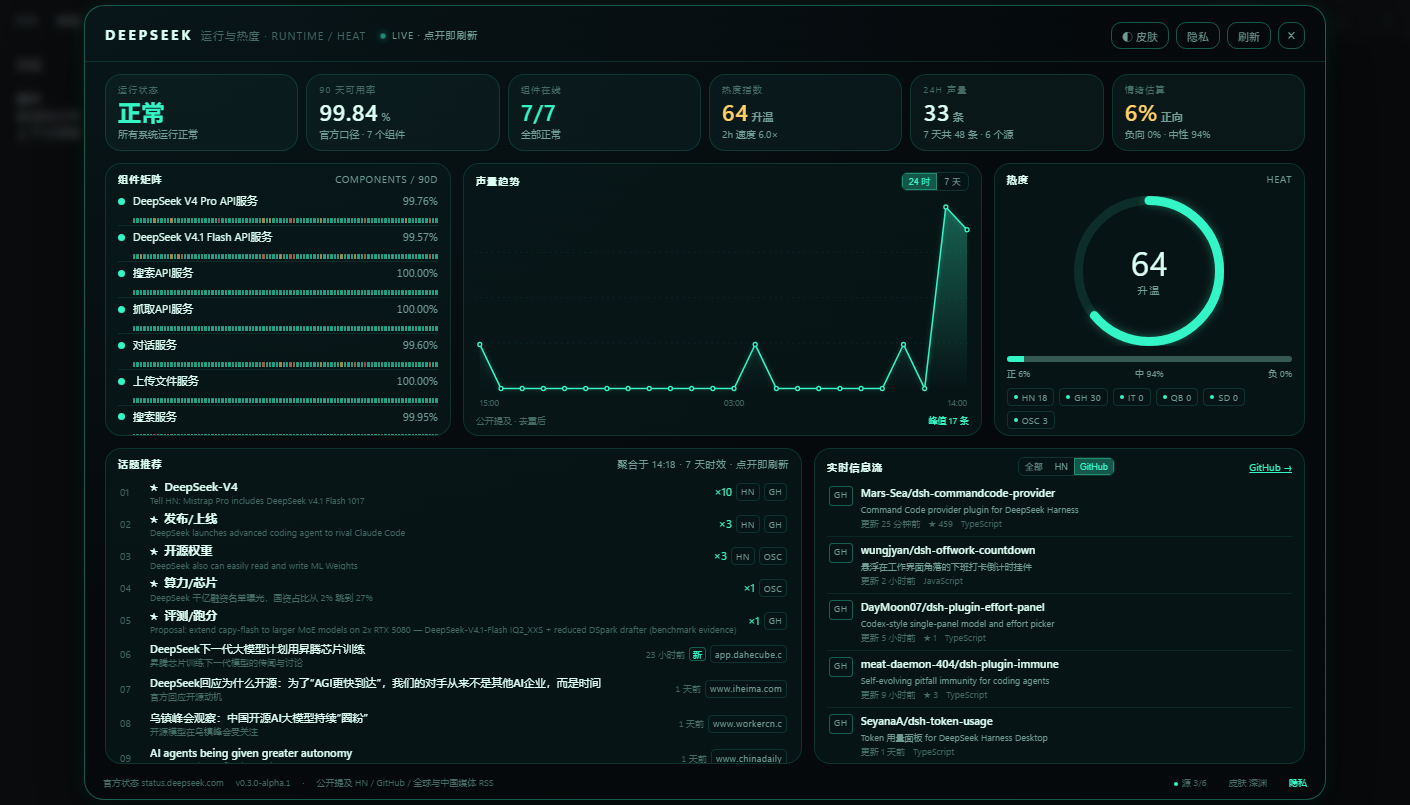
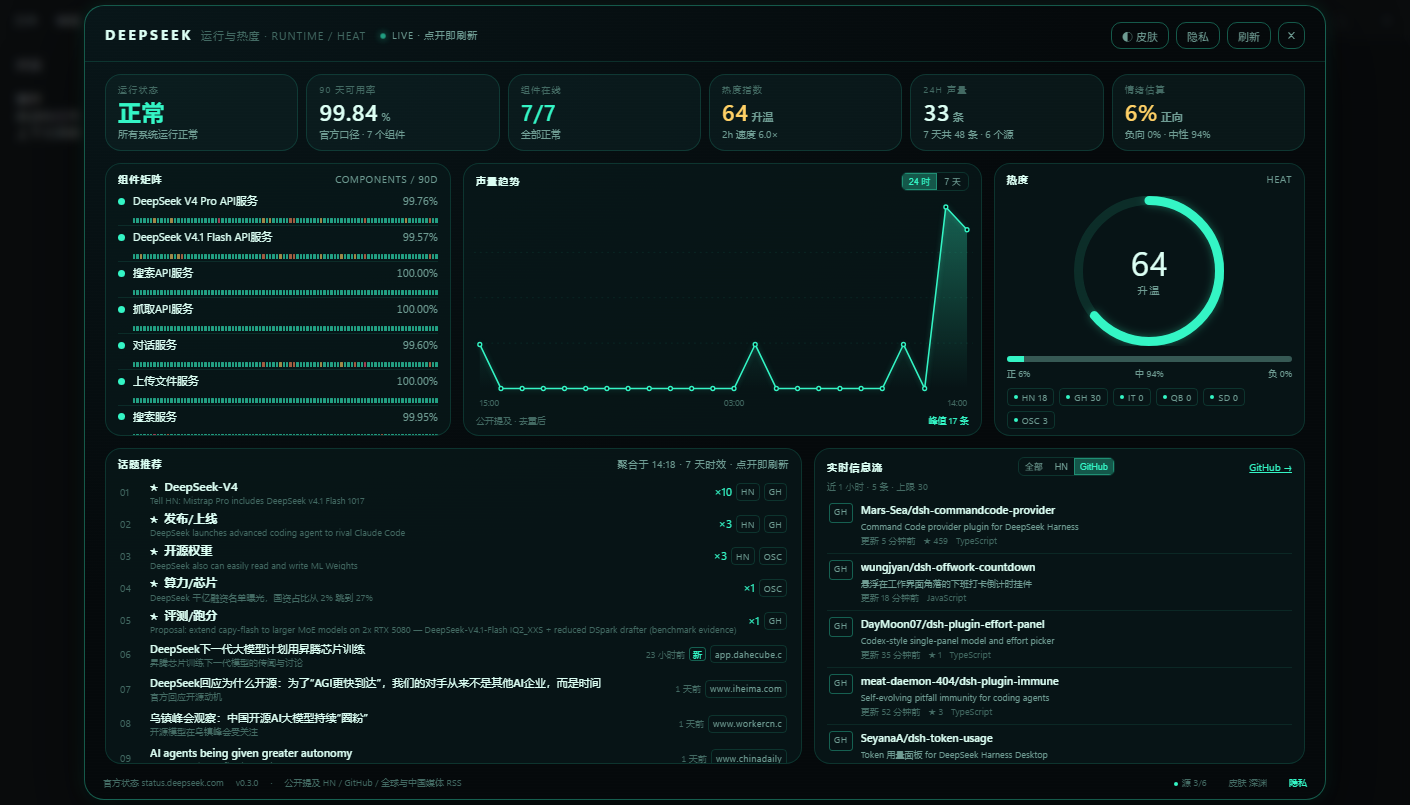
fix: 0.3.0 feed windows cap at 30

Changed region(s): [[0.5929, 0.5901, 0.7489, 0.9627], [0.1872, 0.9627, 0.3433, 0.9938]]

diff --git a/client.js b/client.js
@@ -10,7 +10,7 @@
   'use strict';
 
   var PACKAGE = 'dsh-status-dashboard';
-  var VERSION = '0.3.0-alpha.1';
+  var VERSION = '0.3.0';
   var ROUTE_SEGMENT = '/dsh-status-2417';
   var SKIN_KEY = 'dsh.status.skin';
 
@@ -656,6 +656,7 @@
     '.feed-desc{font-size:9px;line-height:1.35;color:var(--h-dim);margin-top:2px;display:-webkit-box;-webkit-line-clamp:2;-webkit-box-orient:vertical;overflow:hidden}',
     '.feed-plugin .feed-title{font-weight:600}',
     '.feed-note{margin:2px 0 4px;font-size:9px;color:var(--h-warn)}',
+    '.feed-range{margin:0 0 4px;font-size:9px;color:var(--h-mute);letter-spacing:.03em}',
     '.hud-version{color:var(--h-mute);font-variant-numeric:tabular-nums}',
     '.hud-foot{position:relative;z-index:2;display:flex;align-items:center;flex-wrap:wrap;row-gap:4px;gap:12px;padding:0 18px 10px;font-size:9px;color:var(--h-mute)}',
     '.hud-foot .spacer{flex:1}',
@@ -1317,7 +1318,7 @@
       var setFeedTab = feedTabTuple[1];
       var pluginState = plugins ? plugins.state : { data: null, error: null, loading: false, stale: false, fetchedAt: 0 };
       var hnFeed = heat.state.data
-        ? (heat.state.data.hnFeed || heat.state.data.feed.filter(function (item) { return item.sourceId === 'hn' || item.source === 'Hacker News'; }))
+        ? (heat.state.data.hnFeed || heat.state.data.feed.filter(function (item) { return item.sourceId === 'hn' || item.source === 'Hacker News'; })).slice(0, 30)
         : [];
       useEffect(function () {
         if (feedTab === 'plugins' && plugins) plugins.load(false);
@@ -1466,10 +1467,12 @@
           );
         }
         var data = pluginState.data;
-        if (!data || !data.items || !data.items.length) return h('div', { className: 'hud-empty' }, 'GitHub 暂无 DSH 插件更新');
+        var fresh = data && data.items ? data.items.filter(function (item) { return Date.now() - item.at <= 60 * 60_000; }).slice(0, 30) : [];
+        if (!fresh.length) return h('div', { className: 'hud-empty' }, '近 1 小时暂无 DSH 插件更新');
         return h('div', null,
+          h('div', { className: 'feed-range' }, '近 1 小时 · ' + fresh.length + ' 条 · 上限 30'),
           pluginState.stale ? h('div', { className: 'feed-note' }, 'GitHub 暂不可用 · 显示上次缓存') : null,
-          data.items.map(renderPluginRow),
+          fresh.map(renderPluginRow),
         );
       }
 
@@ -1689,7 +1692,7 @@
                     ? renderPluginBody()
                     : feedTab === 'hn'
                       ? (q
-                        ? (hnFeed.length ? hnFeed.map(renderFeedRow) : h('div', { className: 'hud-empty' }, 'HN 暂无新动态'))
+                        ? (hnFeed.length ? h('div', null, h('div', { className: 'feed-range' }, '近 7 天 · ' + hnFeed.length + ' 条 · 上限 30'), hnFeed.map(renderFeedRow)) : h('div', { className: 'hud-empty' }, '近 7 天暂无 HN 动态'))
                         : heatError ? h('div', { className: 'hud-empty hud-err' }, heatErrorText(heatError)) : h('div', { className: 'hud-empty' }, '聚合中…'))
                       : (q
                         ? feed.map(renderFeedRow)

diff --git a/dev/fixture-plugins.js b/dev/fixture-plugins.js
@@ -5,11 +5,11 @@
     fetchedAt: now,
     stale: false,
     items: [
-      { id: 'ghp-1', title: 'Mars-Sea/dsh-commandcode-provider', url: 'https://github.com/Mars-Sea/dsh-commandcode-provider', summary: 'Command Code provider plugin for DeepSeek Harness', at: now - 25 * 60_000, stars: 459, language: 'TypeScript', topics: ['dsh-plugin'] },
-      { id: 'ghp-2', title: 'wungjyan/dsh-offwork-countdown', url: 'https://github.com/wungjyan/dsh-offwork-countdown', summary: '悬浮在工作界面角落的下班打卡倒计时挂件', at: now - 2 * 3_600_000, stars: 0, language: 'JavaScript', topics: ['dsh-plugin'] },
-      { id: 'ghp-3', title: 'DayMoon07/dsh-plugin-effort-panel', url: 'https://github.com/DayMoon07/dsh-plugin-effort-panel', summary: 'Codex-style single-panel model and effort picker', at: now - 5 * 3_600_000, stars: 1, language: 'TypeScript', topics: ['dsh-plugin'] },
-      { id: 'ghp-4', title: 'meat-daemon-404/dsh-plugin-immune', url: 'https://github.com/meat-daemon-404/dsh-plugin-immune', summary: 'Self-evolving pitfall immunity for coding agents', at: now - 9 * 3_600_000, stars: 3, language: 'TypeScript', topics: ['dsh-plugin'] },
-      { id: 'ghp-5', title: 'SeyanaA/dsh-token-usage', url: 'https://github.com/SeyanaA/dsh-token-usage', summary: 'Token 用量面板 for DeepSeek Harness Desktop', at: now - 26 * 3_600_000, stars: 0, language: 'TypeScript', topics: ['dsh-plugin'] },
+      { id: 'ghp-1', title: 'Mars-Sea/dsh-commandcode-provider', url: 'https://github.com/Mars-Sea/dsh-commandcode-provider', summary: 'Command Code provider plugin for DeepSeek Harness', at: now - 5 * 60_000, stars: 459, language: 'TypeScript', topics: ['dsh-plugin'] },
+      { id: 'ghp-2', title: 'wungjyan/dsh-offwork-countdown', url: 'https://github.com/wungjyan/dsh-offwork-countdown', summary: '悬浮在工作界面角落的下班打卡倒计时挂件', at: now - 18 * 60_000, stars: 0, language: 'JavaScript', topics: ['dsh-plugin'] },
+      { id: 'ghp-3', title: 'DayMoon07/dsh-plugin-effort-panel', url: 'https://github.com/DayMoon07/dsh-plugin-effort-panel', summary: 'Codex-style single-panel model and effort picker', at: now - 35 * 60_000, stars: 1, language: 'TypeScript', topics: ['dsh-plugin'] },
+      { id: 'ghp-4', title: 'meat-daemon-404/dsh-plugin-immune', url: 'https://github.com/meat-daemon-404/dsh-plugin-immune', summary: 'Self-evolving pitfall immunity for coding agents', at: now - 52 * 60_000, stars: 3, language: 'TypeScript', topics: ['dsh-plugin'] },
+      { id: 'ghp-5', title: 'SeyanaA/dsh-token-usage', url: 'https://github.com/SeyanaA/dsh-token-usage', summary: 'Token 用量面板 for DeepSeek Harness Desktop', at: now - 58 * 60_000, stars: 0, language: 'TypeScript', topics: ['dsh-plugin'] },
     ],
   };
 })();

diff --git a/lib/plugin-feed.js b/lib/plugin-feed.js
@@ -7,12 +7,14 @@
  */
 
 const SEARCH_URL =
-  'https://api.github.com/search/repositories?q=topic:dsh-plugin+fork:false+archived:false&sort=updated&order=desc&per_page=15';
+  'https://api.github.com/search/repositories?q=topic:dsh-plugin+fork:false+archived:false&sort=updated&order=desc&per_page=30';
 
 const UA =
   'Mozilla/5.0 (Windows NT 10.0; Win64; x64) AppleWebKit/537.36 (KHTML, like Gecko) Chrome/131.0 Safari/537.36';
 
 const CACHE_MS = 10 * 60_000;
+const WINDOW_MS = 60 * 60_000;
+const LIMIT = 30;
 const FORCE_COOLDOWN_MS = 60_000;
 const TIMEOUT_MS = 9_000;
 
@@ -64,12 +66,13 @@ export async function getGithubPlugins(options = {}) {
       });
       if (!response.ok) throw new Error('GitHub HTTP ' + response.status);
       const json = await response.json();
+      const cutoff = Date.now() - WINDOW_MS;
       const items = (json.items || [])
         .map(mapItem)
-        .filter(Boolean)
+        .filter((item) => item && item.at >= cutoff)
         .sort((a, b) => b.at - a.at)
-        .slice(0, 15);
-      const data = { ok: true, fetchedAt: Date.now(), items, stale: false };
+        .slice(0, LIMIT);
+      const data = { ok: true, fetchedAt: Date.now(), windowMinutes: 60, limit: LIMIT, items, stale: false };
       cache = { at: data.fetchedAt, data };
       return data;
     } catch (error) {

diff --git a/lib/search.js b/lib/search.js
@@ -6,7 +6,7 @@
  */
 
 const SEARCH_ENDPOINT = 'https://api.deepseek.com/v1/tools/search';
-const USER_AGENT = 'dsh-status-dashboard/0.3.0-alpha.1';
+const USER_AGENT = 'dsh-status-dashboard/0.3.0';
 const TOTAL_BUDGET = 35_000;
 const DAY = 86_400_000;
 const HOUR = 3_600_000;

diff --git a/lib/heat.js b/lib/heat.js
@@ -412,7 +412,7 @@ function buildHeat(results, now) {
   const hnFeed = items
     .filter((item) => (item.sourceIds || []).includes('hn'))
     .sort((a, b) => b.at - a.at)
-    .slice(0, 20)
+    .slice(0, 30)
     .map(toFeedItem);
 
   return {

diff --git a/MARKET.md b/MARKET.md
@@ -1,4 +1,4 @@
-# 上架清单（0.3.0 Alpha）
+# 上架清单（0.3.0）
 
 这份文件是给插件市场/仓库发布用的检查表，不参与运行时加载。
 
@@ -7,7 +7,7 @@
 | 字段 | 值 | 状态 |
 | --- | --- | --- |
 | name | `dsh-status-dashboard` | ✅ |
-| version | `0.3.0-alpha.1` | ⏳ 待发布 |
+| version | `0.3.0` | ⏳ 待验证后发布 |
 | description | 中文一句话，见 package.json | ✅ |
 | icon | `assets/icon.svg`（64×64，346 B） | ✅ |
 | license | 自定义：DSH 仪表盘署名许可 1.0（`LICENSE`，非 OSI 开源） | ✅ |
